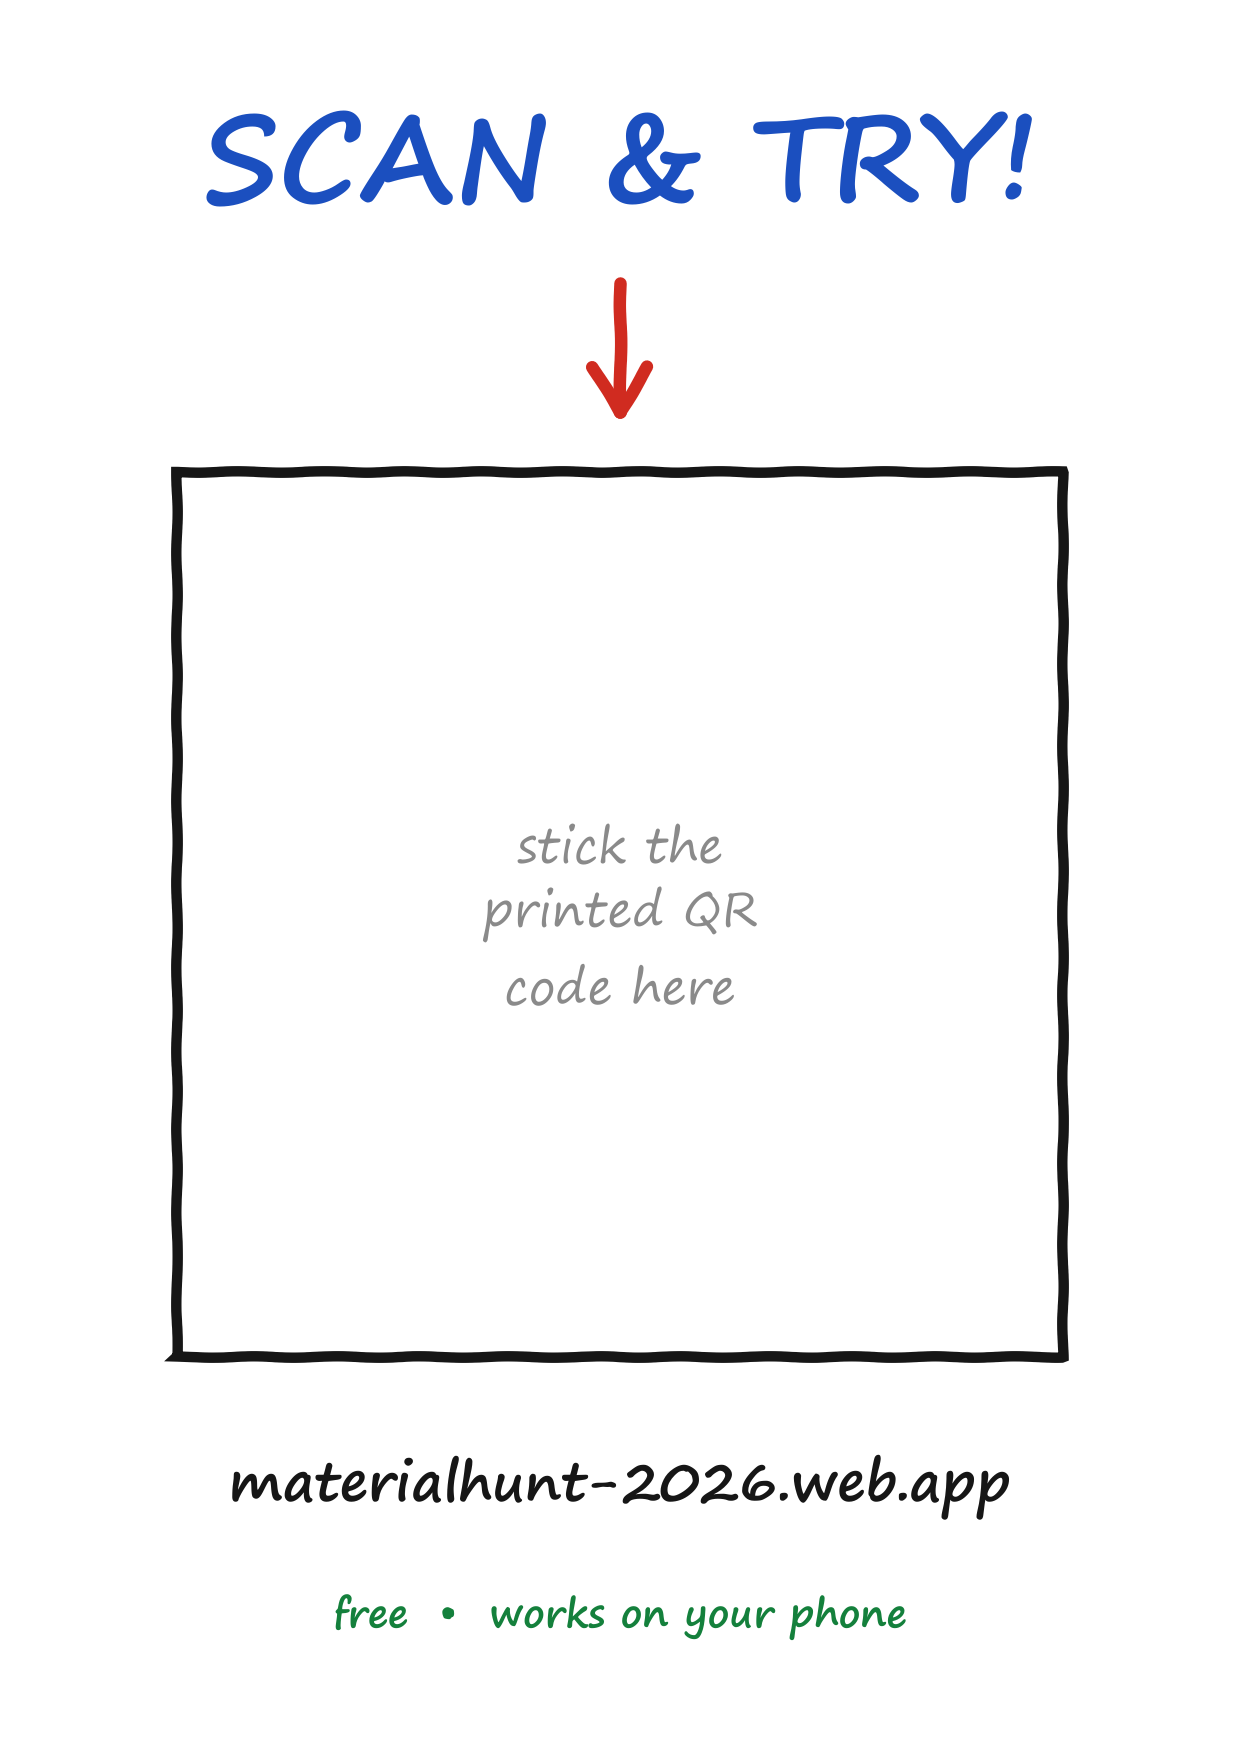
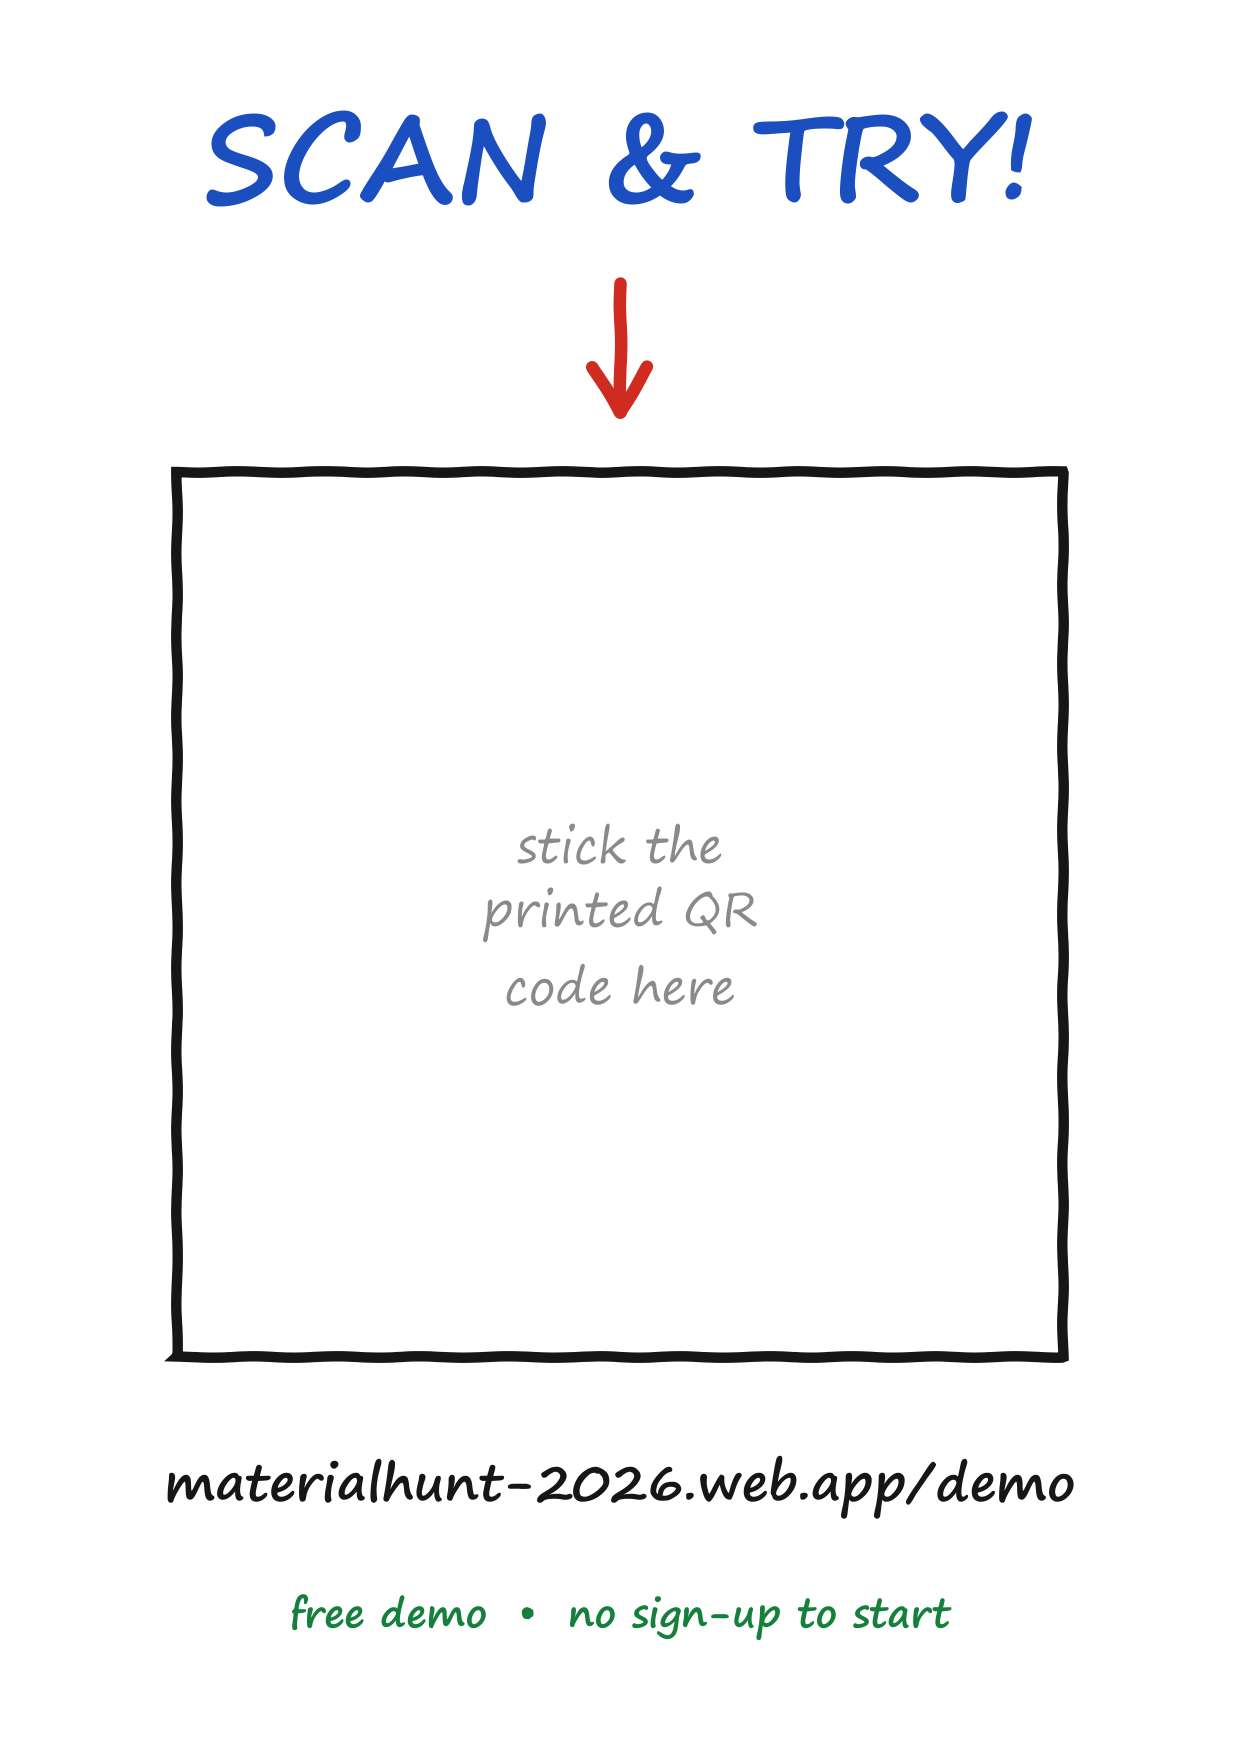
Demo mode before sign-in with generous daily limits; /demo address for the QR code

Changed region(s): [[0.1226, 0.8317, 0.8581, 0.8625], [0.2452, 0.8933, 0.7661, 0.9549]]

diff --git a/static/landing.js b/static/landing.js
@@ -13,6 +13,12 @@
     const asked = new URLSearchParams(location.search).get('booth') === '1';
     try { if (asked) sessionStorage.setItem('mh_booth', '1'); return asked || sessionStorage.getItem('mh_booth') === '1'; } catch { return asked; }
   })();
+  // demo mode: the QR code opens /demo, which comes here with ?demo=1. Tools work with daily limits, then sign-in is asked.
+  const DEMO_KEY = 'mh_demo';
+  const setDemo = (on) => { try { if (on) localStorage.setItem(DEMO_KEY, '1'); else localStorage.removeItem(DEMO_KEY); } catch { /* private window */ } demoNow = on; };
+  let demoNow = (() => { try { return new URLSearchParams(location.search).get('demo') === '1' || localStorage.getItem(DEMO_KEY) === '1'; } catch { return false; } })();
+  if (new URLSearchParams(location.search).get('demo') === '1') setDemo(true);
+  const allowed = () => signedIn() || demoNow;
   const remembered = () => { try { return Boolean(localStorage.getItem(typeof STORAGE !== 'undefined' ? STORAGE.token : 'mh_token')); } catch { return false; } };
   const signedIn = () => booth || Boolean(typeof state !== 'undefined' && state.user) || remembered();
   let last = null;
@@ -23,26 +29,27 @@
   }
 
   function sync() {
-    const now = signedIn() ? 'in' : 'out';
+    const now = signedIn() ? 'in' : (demoNow ? 'demo' : 'out');
     root.dataset.auth = now;
     const run = document.getElementById('heroRunSim');
-    if (run) { const label = [...run.childNodes].reverse().find((n) => n.nodeType === 3 && n.textContent.trim()); if (label) label.textContent = now === 'in' ? ' Run a live test ' : ' Get started free '; }
-    document.querySelectorAll('.mh-open').forEach((el) => { if (!el.dataset.in) el.dataset.in = el.textContent; el.textContent = now === 'in' ? el.dataset.in : 'Sign in to open →'; });
-    document.getElementById('heroCreate')?.classList.toggle('hidden', true);
+    if (run) { const label = [...run.childNodes].reverse().find((n) => n.nodeType === 3 && n.textContent.trim()); if (label) label.textContent = now === 'out' ? ' Try the free demo ' : ' Run a live test '; }
+    document.querySelectorAll('.mh-open').forEach((el) => { if (!el.dataset.in) el.dataset.in = el.textContent; el.textContent = now === 'out' ? 'Try in the demo →' : el.dataset.in; });
+    document.getElementById('heroCreate')?.classList.toggle('hidden', now === 'in');
+    bar(now);
     if (last === now) return;
     const before = last;
     last = now;
     if (typeof setView !== 'function' || typeof state === 'undefined') return;
     if (now === 'out' && !OPEN_VIEWS.has(state.view)) setView('simulator');
     // charts and the 3D view were hidden, so draw them again once they are visible
-    if (before === 'out' && now === 'in') setTimeout(() => { window.dispatchEvent(new Event('resize')); if (state.view === 'simulator') setView('simulator'); }, 120);
+    if (before === 'out' && now !== 'out') setTimeout(() => { window.dispatchEvent(new Event('resize')); if (state.view === 'simulator') setView('simulator'); }, 120);
   }
 
   // every way of opening a view goes through setView, so one check covers menus, links and buttons
   if (typeof window.setView === 'function') {
     const open = window.setView;
     window.setView = function gatedSetView(view, scroll) {
-      if (!signedIn() && !OPEN_VIEWS.has(view)) { ask(); return open('simulator', false); }
+      if (!allowed() && !OPEN_VIEWS.has(view)) { ask(); return open('simulator', false); }
       return open(view, scroll);
     };
   }
@@ -51,9 +58,45 @@
   document.addEventListener('click', (e) => {
     const start = e.target.closest('#heroRunSim, [data-mh-top], #mhModules .mh-card');
     if (!start) return;
-    if (!signedIn()) { e.preventDefault(); e.stopPropagation(); ask(); return; }
+    if (!allowed()) {
+      // first visit: any "try it" button starts the demo
+      setDemo(true); sync();
+      if (!start.matches('#mhModules .mh-card')) { e.preventDefault(); e.stopPropagation(); setTimeout(() => document.querySelector('.goal-section')?.scrollIntoView({ behavior: 'smooth' }), 250); }
+      return; // a tool card carries on and opens its tool
+    }
     if (start.matches('[data-mh-top]')) { e.preventDefault(); document.querySelector('.goal-section')?.scrollIntoView({ behavior: 'smooth' }); }
   }, true);
+
+  /* count tool runs in the demo; when a limit is used up the sign-up box appears instead */
+  const COUNTED = [['#runAIDesign', 'finder'], ['#drRun', 'doctor'], ['#runComparison', 'compare'], ['#mlTrain', 'ml']];
+  document.addEventListener('click', (e) => {
+    if (root.dataset.auth !== 'demo' || !window.MH_PLAN) return;
+    const hit = COUNTED.find(([sel]) => e.target.closest(sel));
+    if (hit && !window.MH_PLAN.use(hit[1])) { e.preventDefault(); e.stopImmediatePropagation(); }
+    setTimeout(() => bar(root.dataset.auth), 150);
+  }, true);
+
+  /* the strip that says this is a demo and what is left */
+  function bar(mode) {
+    let el = document.getElementById('mhDemoBar');
+    if (mode !== 'demo') { el?.remove(); return; }
+    if (!el) {
+      el = document.createElement('div');
+      el.id = 'mhDemoBar';
+      el.className = 'mh-demo-bar';
+      el.setAttribute('role', 'status');
+      document.querySelector('main')?.insertAdjacentElement('beforebegin', el);
+      el.addEventListener('click', (e) => {
+        if (e.target.closest('[data-demo-up]') && typeof openAuth === 'function') openAuth('register');
+        if (e.target.closest('[data-demo-in]') && typeof openAuth === 'function') openAuth('login');
+        if (e.target.closest('[data-demo-exit]')) { setDemo(false); sync(); window.scrollTo(0, 0); }
+      });
+    }
+    const left = (k) => (window.MH_PLAN ? window.MH_PLAN.remaining(k) : '…');
+    el.innerHTML = `<div><b>DEMO MODE</b><span>Left today: <i>${left('sim')}</i> test runs · <i>${left('finder')}</i> searches · <i>${left('doctor')}</i> diagnoses · <i>${left('compare')}</i> comparisons</span></div>
+      <div><button type="button" class="btn btn-primary small" data-demo-up>Sign up free: no limit on runs</button><button type="button" class="btn btn-glass small" data-demo-in>Sign in</button><button type="button" class="text-btn" data-demo-exit>Exit demo</button></div>`;
+  }
+  document.addEventListener('click', () => { if (root.dataset.auth === 'demo') setTimeout(() => bar('demo'), 400); });
 
   window.addEventListener('mh:session', () => setTimeout(sync, 0));
   window.addEventListener('storage', sync);

diff --git a/static/index.html b/static/index.html
@@ -20,10 +20,10 @@
   <link rel="apple-touch-icon" href="apple-touch-icon.png" />
   <link rel="manifest" href="site.webmanifest" />
   <link rel="stylesheet" href="style.css?v=3.2.0" />
-  <link rel="stylesheet" href="growth.css?v=4.16.27" />
+  <link rel="stylesheet" href="growth.css?v=4.16.28" />
   <link rel="stylesheet" href="responsive.css?v=1.0.2" />
   <link rel="stylesheet" href="themes.css?v=1.0.0" />
-  <link rel="stylesheet" href="landing.css?v=1.0.0" />
+  <link rel="stylesheet" href="landing.css?v=1.0.1" />
 </head>
 <body>
   <div class="ambient" aria-hidden="true">
@@ -1198,29 +1198,29 @@
 
   <script src="vendor/three.min.js?v=quiet2"></script>
   <script src="vendor/plotly.min.js"></script>
-  <script src="firebase-bridge.js?v=4.16.27"></script>
-  <script src="app.js?v=4.16.27"></script>
-  <script src="config.js?v=4.16.27"></script>
-  <script src="tools.js?v=4.16.27"></script>
-  <script src="growth.js?v=4.16.27"></script>
-  <script src="ai.js?v=4.16.27"></script>
-  <script src="admin.js?v=4.16.27"></script>
-  <script src="designs.js?v=4.16.27"></script>
-  <script src="profile.js?v=4.16.27"></script>
-  <script src="promo.js?v=4.16.27"></script>
-  <script src="community.js?v=4.16.27"></script>
-  <script src="forum.js?v=4.16.27"></script>
-  <script src="workspace.js?v=4.16.27"></script>
-  <script src="showcase.js?v=4.16.27"></script>
-  <script src="brain.js?v=4.16.27"></script>
-  <script src="vision.js?v=4.16.27"></script>
-  <script src="ml.js?v=4.16.27"></script>
-  <script src="engine.js?v=4.16.27"></script>
-  <script src="hints.js?v=4.16.27"></script>
-  <script src="account.js?v=4.16.27"></script>
-  <script src="endorse.js?v=4.16.27"></script>
-  <script src="notifications.js?v=4.16.27"></script>
+  <script src="firebase-bridge.js?v=4.16.28"></script>
+  <script src="app.js?v=4.16.28"></script>
+  <script src="config.js?v=4.16.28"></script>
+  <script src="tools.js?v=4.16.28"></script>
+  <script src="growth.js?v=4.16.28"></script>
+  <script src="ai.js?v=4.16.28"></script>
+  <script src="admin.js?v=4.16.28"></script>
+  <script src="designs.js?v=4.16.28"></script>
+  <script src="profile.js?v=4.16.28"></script>
+  <script src="promo.js?v=4.16.28"></script>
+  <script src="community.js?v=4.16.28"></script>
+  <script src="forum.js?v=4.16.28"></script>
+  <script src="workspace.js?v=4.16.28"></script>
+  <script src="showcase.js?v=4.16.28"></script>
+  <script src="brain.js?v=4.16.28"></script>
+  <script src="vision.js?v=4.16.28"></script>
+  <script src="ml.js?v=4.16.28"></script>
+  <script src="engine.js?v=4.16.28"></script>
+  <script src="hints.js?v=4.16.28"></script>
+  <script src="account.js?v=4.16.28"></script>
+  <script src="endorse.js?v=4.16.28"></script>
+  <script src="notifications.js?v=4.16.28"></script>
   <script src="themes.js?v=1.0.0"></script>
-  <script src="landing.js?v=1.0.0"></script>
+  <script src="landing.js?v=1.0.1"></script>
 </body>
 </html>

diff --git a/static/growth.js b/static/growth.js
@@ -21,7 +21,7 @@
     paymentLinks: { pro_month: '', pro_year: '', team_month: '', team_year: '', credits: '' },
     prices: { pro: { month: 1499, year: 14990 }, team: { month: 4999, year: 49990 }, credits: 999 },
     limits: {
-      guest: { sim: 25, bom: 6, report: 3, batch: 0, ai: 5 }, // without an account: per day sim, bom, ai; per month report (so a visitor or judge can finish a whole workflow)
+      guest: { sim: 60, bom: 15, report: 6, batch: 0, ai: 25, finder: 30, doctor: 25, compare: 30, ml: 10 }, // demo (no account): per day, except report which is per month
       free: { report: 3, batch: 2, ai: 40 },                  // reports/batch per month, ai per day
     },
     payments: { razorpayKeyId: '', upiId: '', payeeName: 'MaterialHunt' },
@@ -104,7 +104,7 @@
   function readUsage() {
     let u = {};
     try { u = JSON.parse(localStorage.getItem(usageKey()) || '{}'); } catch { u = {}; }
-    if (u.day !== today()) { u.day = today(); u.sim = 0; u.bom = 0; u.ai = 0; }
+    if (u.day !== today()) { u.day = today(); u.sim = 0; u.bom = 0; u.ai = 0; u.finder = 0; u.doctor = 0; u.compare = 0; u.ml = 0; }
     if (u.month !== month()) { u.month = month(); u.report = 0; u.batch = 0; }
     return u;
   }
@@ -114,7 +114,7 @@
     tier() { return state.user ? (state.user.tier || 'free') : 'guest'; },
     isPaid() { return PAID.includes(PLAN.tier()); },
     verified() { return Boolean(state.user?.email_verified); },
-    bucket(kind) { return { sim: 'sim', bom: 'bom', ai: 'ai', pdf: 'report', rfq: 'report', batch: 'batch' }[kind]; },
+    bucket(kind) { return { sim: 'sim', bom: 'bom', ai: 'ai', pdf: 'report', rfq: 'report', batch: 'batch', finder: 'finder', doctor: 'doctor', compare: 'compare', ml: 'ml' }[kind]; },
     limit(kind) {
       const b = PLAN.bucket(kind);
       const t = PLAN.tier();
@@ -153,6 +153,10 @@
     pdf: ['Create a free account to download reports', 'Free accounts get 3 PDF reports a month.'],
     rfq: ['Create a free account to generate RFQs', 'Free accounts get 3 RFQ / PDF reports a month, with the full NABL test sheet.'],
     batch: ['Create a free account to use this tool', 'It only takes a few seconds.'],
+    finder: ['Demo limit reached for the Alloy Finder', 'Create a free account to keep searching.'],
+    doctor: ['Demo limit reached for the Failure Doctor', 'Create a free account to keep diagnosing.'],
+    compare: ['Demo limit reached for Compare', 'Create a free account to keep comparing alloys.'],
+    ml: ['Demo limit reached for the ML Lab', 'Create a free account to keep training models.'],
   };
 
   function gateSignup(kind) {

diff --git a/static/landing.css b/static/landing.css
@@ -18,8 +18,8 @@ html[data-auth="out"] .copilot-fab, html[data-auth="out"] .viewport-card .mode-t
 html[data-auth="out"] .viewport-card .viewport-readout, html[data-auth="out"] .viewport-card .viewport-legend { display: none !important; }
 
 /* ---------- signed in: straight to the tools ---------- */
-html[data-auth="in"] #view-simulator > .mh-band, html[data-auth="in"] #view-simulator > .mh-block,
-html[data-auth="in"] #view-simulator > .mh-note, html[data-auth="in"] #view-simulator > .mh-cta { display: none !important; }
+html:not([data-auth="out"]) #view-simulator > .mh-band, html:not([data-auth="out"]) #view-simulator > .mh-block,
+html:not([data-auth="out"]) #view-simulator > .mh-note, html:not([data-auth="out"]) #view-simulator > .mh-cta { display: none !important; }
 
 /* ---------- shared blocks ---------- */
 .mh-band, .mh-block { margin: 18px 0 34px; padding: clamp(28px, 5vw, 64px) clamp(18px, 4.5vw, 56px); border-radius: 32px; }
@@ -111,4 +111,20 @@ html.mh-anim .mh-reveal.in { opacity: 1; transform: none; }
   .mh-band { border-radius: 24px; }
   .mh-person { padding: 20px; }
   .mh-row { flex-direction: column; align-items: flex-start; gap: 8px; }
+}
+
+/* ---------- demo strip ---------- */
+.mh-demo-bar { display: flex; flex-wrap: wrap; align-items: center; justify-content: space-between; gap: 10px 18px; margin: 12px 0 4px; padding: 12px 16px; border-radius: 18px;
+  background: linear-gradient(110deg, rgba(var(--accent-rgb), .22), rgba(var(--accent2-rgb), .14)), var(--panel-strong); border: 1px solid rgba(var(--accent-rgb), .55); }
+.mh-demo-bar > div { display: flex; flex-wrap: wrap; align-items: center; gap: 8px 12px; }
+.mh-demo-bar b { font-size: 11px; letter-spacing: .16em; padding: 4px 10px; border-radius: 999px; color: #06121f; background: linear-gradient(120deg, var(--cyan), var(--accent2)); }
+html[data-theme="light"] .mh-demo-bar b { color: #fff; }
+.mh-demo-bar span { font-size: 13px; color: var(--text-soft); }
+.mh-demo-bar i { font-style: normal; font-weight: 800; color: var(--text); }
+@media (max-width: 640px) {
+  .mh-demo-bar { padding: 9px 12px; gap: 7px; margin-top: 8px; }
+  .mh-demo-bar span { font-size: 11.5px; line-height: 1.4; }
+  .mh-demo-bar b { font-size: 9.5px; padding: 3px 8px; }
+  .mh-demo-bar .btn.small { min-height: 34px; padding: 6px 11px; font-size: 11.5px; }
+  .mh-demo-bar .text-btn { min-height: 30px; font-size: 11.5px; }
 }

diff --git a/static/demo/index.html b/static/demo/index.html
@@ -1,0 +1,13 @@
+<!doctype html>
+<html lang="en">
+<head>
+  <meta charset="utf-8" />
+  <meta name="viewport" content="width=device-width, initial-scale=1" />
+  <meta http-equiv="refresh" content="0; url=/?demo=1" />
+  <title>MaterialHunt demo</title>
+  <style>body{margin:0;min-height:100vh;display:grid;place-items:center;font-family:system-ui,sans-serif;background:#070b14;color:#e8eef9}a{color:#22d3ee}</style>
+</head>
+<body>
+  <p>Opening the MaterialHunt demo… <a href="/?demo=1">Tap here if nothing happens</a></p>
+</body>
+</html>

diff --git a/stall/make_hand_charts.py b/stall/make_hand_charts.py
@@ -198,8 +198,8 @@ def qr():
     arrow(ax, 10.5, 4.8, 10.5, 7, RED, 0.9, 6)
     rect(ax, 3, 8, 15, 15, BLACK, 5)
     T(ax, 10.5, 15.5, 'stick the\nprinted QR\ncode here', 0.8, '#8a8a8a', bold=False)
-    T(ax, 10.5, 25.2, LINK, 0.9, BLACK)
-    T(ax, 10.5, 27.4, 'free  •  works on your phone', 0.65, GREEN)
+    T(ax, 10.5, 25.2, LINK + '/demo', 0.85, BLACK)
+    T(ax, 10.5, 27.4, 'free demo  •  no sign-up to start', 0.65, GREEN)
     save(fig, '5-A4-scan-and-try')
 
 
